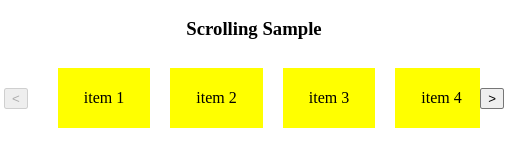
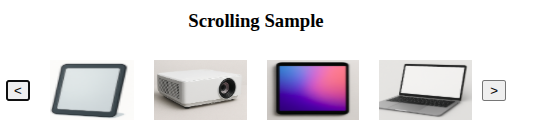
Update scrollig images

diff --git a/src/app/horizental-scrolling/horizental-scrolling.component.html b/src/app/horizental-scrolling/horizental-scrolling.component.html
@@ -21,14 +21,14 @@
 
     <div class="containerScrollItems">
       <div class="scrollItems">
-        <div class="item">item 1</div>
-        <div class="item">item 2</div>
-        <div class="item">item 3</div>
-        <div class="item">item 4</div>
-        <div class="item">item 5</div>
-        <div class="item">item 6</div>
-        <div class="item">item 7</div>
-        <div class="item">item 9</div>
+        <img src="/assets/img1.png" alt="image" class="item">
+        <img src="/assets/img2.png" alt="image" class="item">
+        <img src="/assets/img3.png" alt="image" class="item">
+        <img src="/assets/img4.png" alt="image" class="item">
+        <img src="/assets/img5.png" alt="image" class="item">
+        <img src="/assets/img6.png" alt="image" class="item">
+        <img src="/assets/img7.png" alt="image" class="item">
+        <img src="/assets/img8.png" alt="image" class="item">
       </div>
     </div>
 
